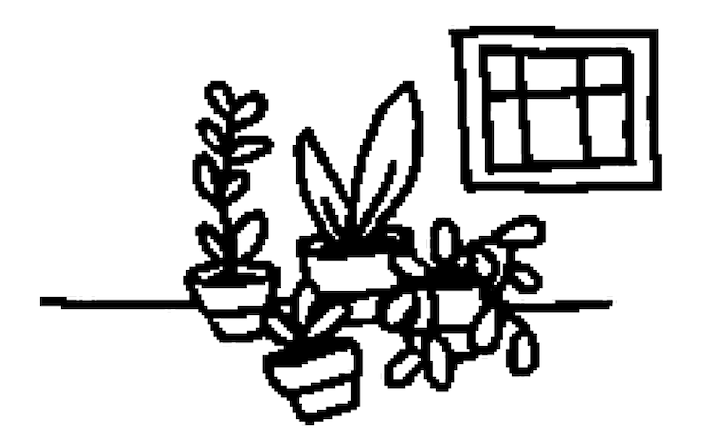
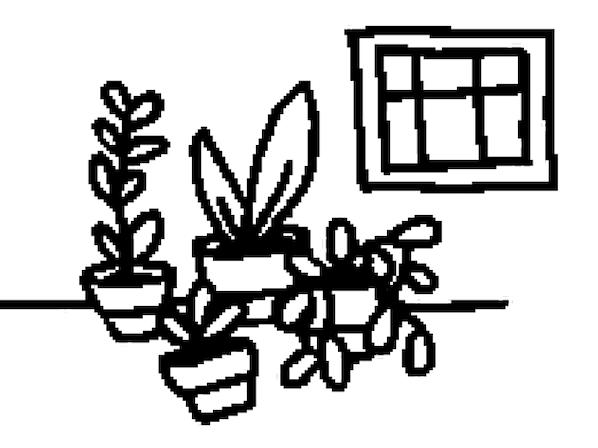
added pixel art

Changed region(s): [[0.1204, 0.0312, 0.9632, 0.9688], [0.0, 0.6562, 0.0903, 0.7188]]

diff --git a/about.html b/about.html
@@ -8,7 +8,7 @@
   </head>
   <body>
     <div id="nav"></div>
-    <!--<div class="header"><img src="images/plants.png" /></div>-->
+    <div class="header"><img src="images/plants.png" /></div>
     <div class="content-container">
       <h2>/about</h2>
       <div class="flexbox">
@@ -30,9 +30,13 @@
             you can contact bee at any of the links at the bottom of the page
             (you may need to scroll down).
           </p>
+          <div class="about">
+            <img src="images/cat.jpg" />
+          </div>
         </div>
       </div>
     </div>
+
     <div id="footer"></div>
     <script src="script.js"></script>
   </body>

diff --git a/style.css b/style.css
@@ -228,7 +228,7 @@ text-align: center;
 }
 
 .header{
-  margin-top: 10vw;
+  margin-top: 10em;
   margin-bottom: -6vw;
   display: grid;
   place-items: center;
@@ -237,6 +237,14 @@ text-align: center;
 .header img{
   width: 200px;
 }
+
+  .about{
+    text-align: center;
+  }
+
+  .about img{
+    width: 250px;
+  }
 
 
 @media (max-width: 900px){
@@ -250,6 +258,11 @@ text-align: center;
   }
 
 
+
+.header{
+  margin-top: 15em;
+  margin-bottom: -70%;
+}
 
   .content-container{
     margin-top: 60%;
@@ -301,4 +314,8 @@ text-align: center;
   width: 100%;
   height: 100%;
 }
+
+.about img{
+    width: 200px;
+  }
 }

diff --git a/index.html b/index.html
@@ -8,7 +8,7 @@
   </head>
   <body>
     <div id="nav"></div>
-    <!--<div class="header"><img src="images/plants.png" /></div>-->
+    <div class="header"><img src="images/plants.png" /></div>
     <div class="content-container">
       <h2>/publications</h2>
       <div id="btn-container-id">

diff --git a/blog.html b/blog.html
@@ -8,7 +8,7 @@
   </head>
   <body>
     <div id="nav"></div>
-    <!--<div class="header"><img src="images/plants.png" /></div>-->
+    <div class="header"><img src="images/plants.png" /></div>
     <div class="content-container">
       <h2>/blog</h2>
       <div id="btn-container-id">

diff --git a/games.html b/games.html
@@ -8,7 +8,7 @@
   </head>
   <body>
     <div id="nav"></div>
-    <!--<div class="header"><img src="images/plants.png" /></div>-->
+    <div class="header"><img src="images/plants.png" /></div>
     <div class="content-container">
       <h2>/games</h2>
 

diff --git a/art.html b/art.html
@@ -8,7 +8,7 @@
   </head>
   <body>
     <div id="nav"></div>
-    <!--<div class="header"><img src="images/plants.png" /></div>-->
+    <div class="header"><img src="images/plants.png" /></div>
     <div class="content-container">
       <h2>/art</h2>
 
